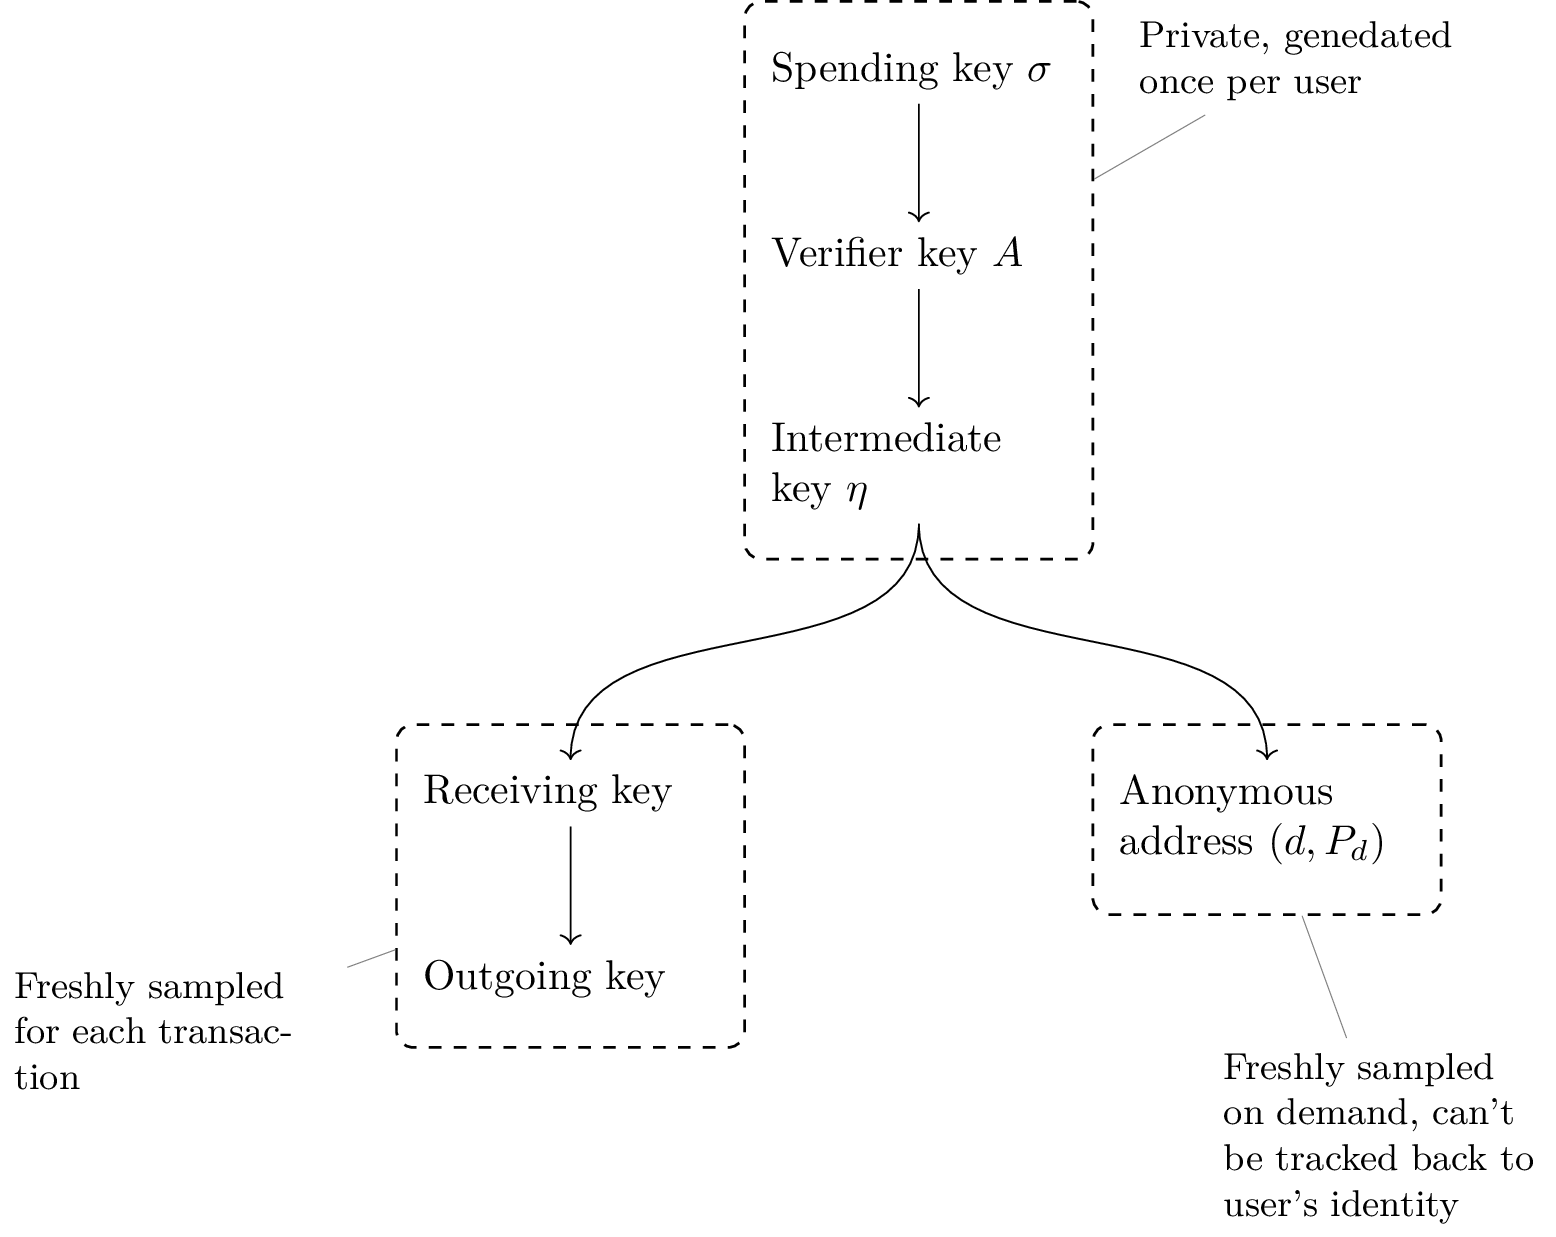
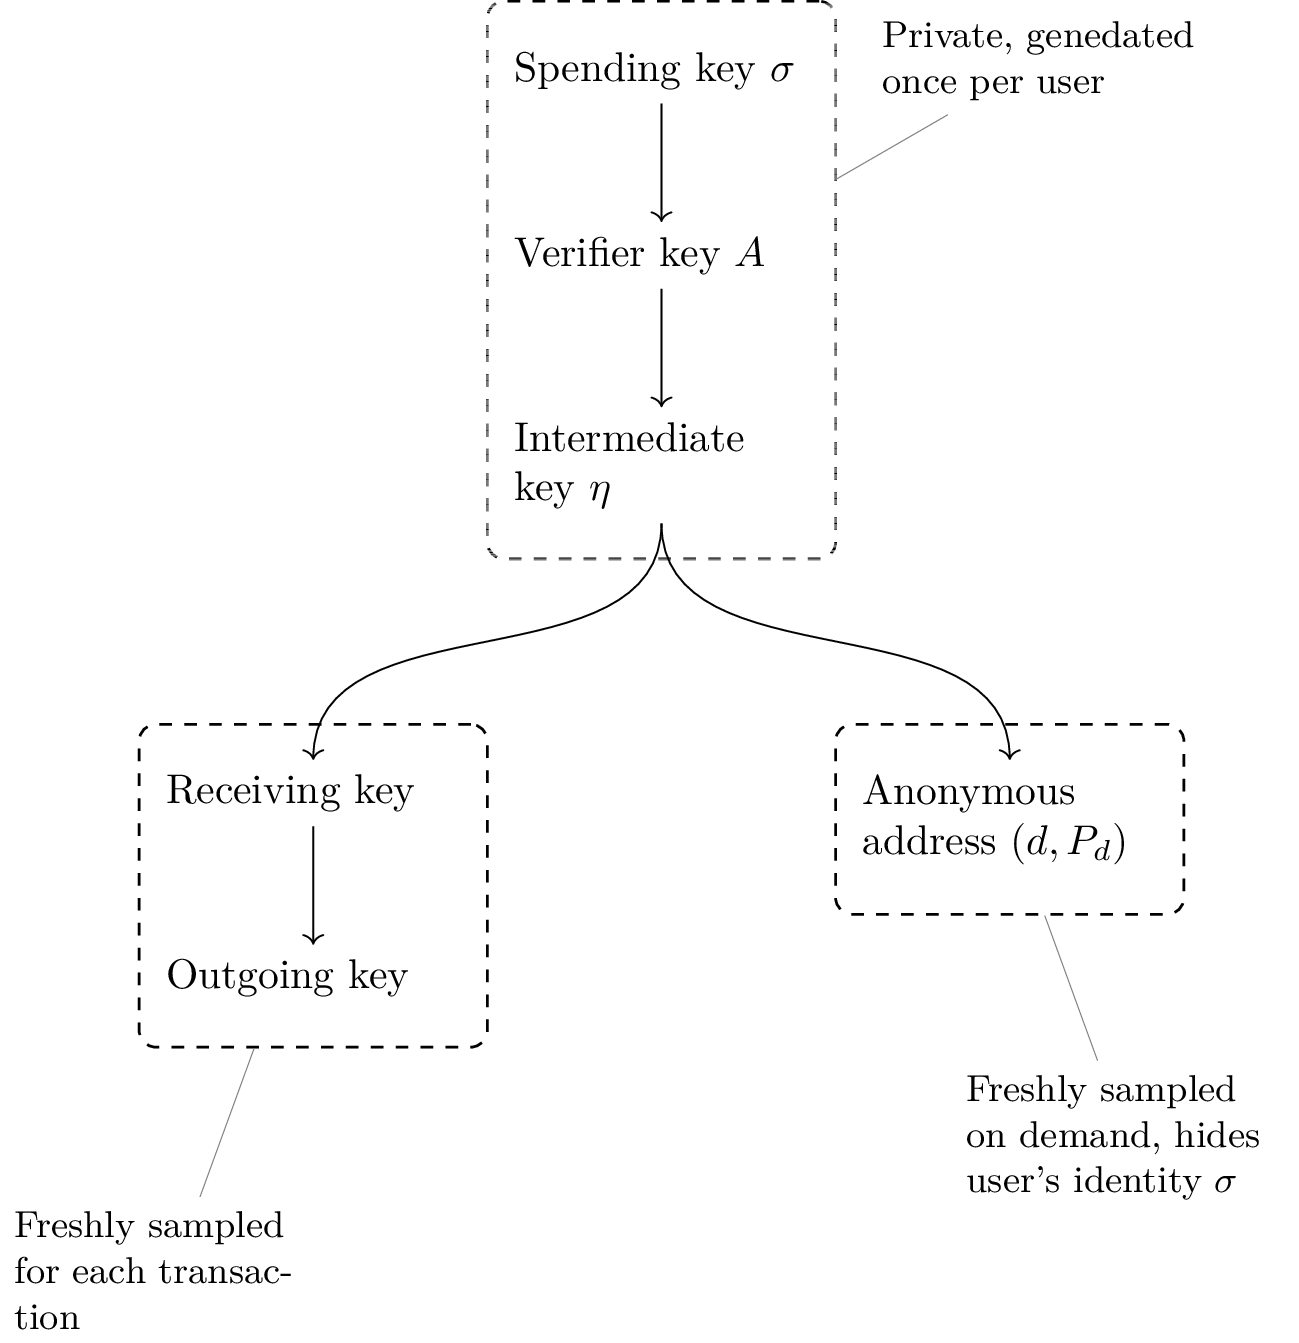
Update diagrams

diff --git a/docs/new-docs/diagrams/zeropool-keys/main.tex b/docs/new-docs/diagrams/zeropool-keys/main.tex
@@ -41,8 +41,8 @@
        \draw[->,out=-90,in=90] (interm) to (address);
 
     \node[fit=(spending)(interm),pinnedBox={30}{Private, genedated once per user}] {};
-    \node[fit=(recieving)(outgoing),pinnedBox={200}{Freshly sampled for each transaction}] {};
-    \node[fit=(address),pinnedBox={-70}{Freshly sampled on demand, can't be tracked back to user's identity}] {};
+    \node[fit=(recieving)(outgoing),pinnedBox={-110}{Freshly sampled for each transaction}] {};
+    \node[fit=(address),pinnedBox={-70}{Freshly sampled on demand, hides user's identity $\sigma$}] {};
   \end{tikzpicture}
 
   % \noindent

diff --git a/docs/new-docs/diagrams/transaction-acting-on-a-list/main.tex b/docs/new-docs/diagrams/transaction-acting-on-a-list/main.tex
@@ -22,7 +22,7 @@
 		nodes in empty cells,
 		execute at end picture={
 			\begin{scope}[on background layer]
-  			\node[rectangle,draw,dotted,fit=(lastTransLeft)(lastTransRight),rounded corners=0.2cm,inner sep=2mm,outer sep=1pt,pin={[font=\normalsize]90:{
+  			\node[rectangle,draw,dashed,fit=(lastTransLeft)(lastTransRight),rounded corners=0.2cm,inner sep=2mm,outer sep=1pt,pin={[font=\normalsize]90:{
           Created by the transaction
   			}}] (createdCaption) {};
   			\node[below right=3cm and 1cm of consumedThree] (consumedCaption) {
